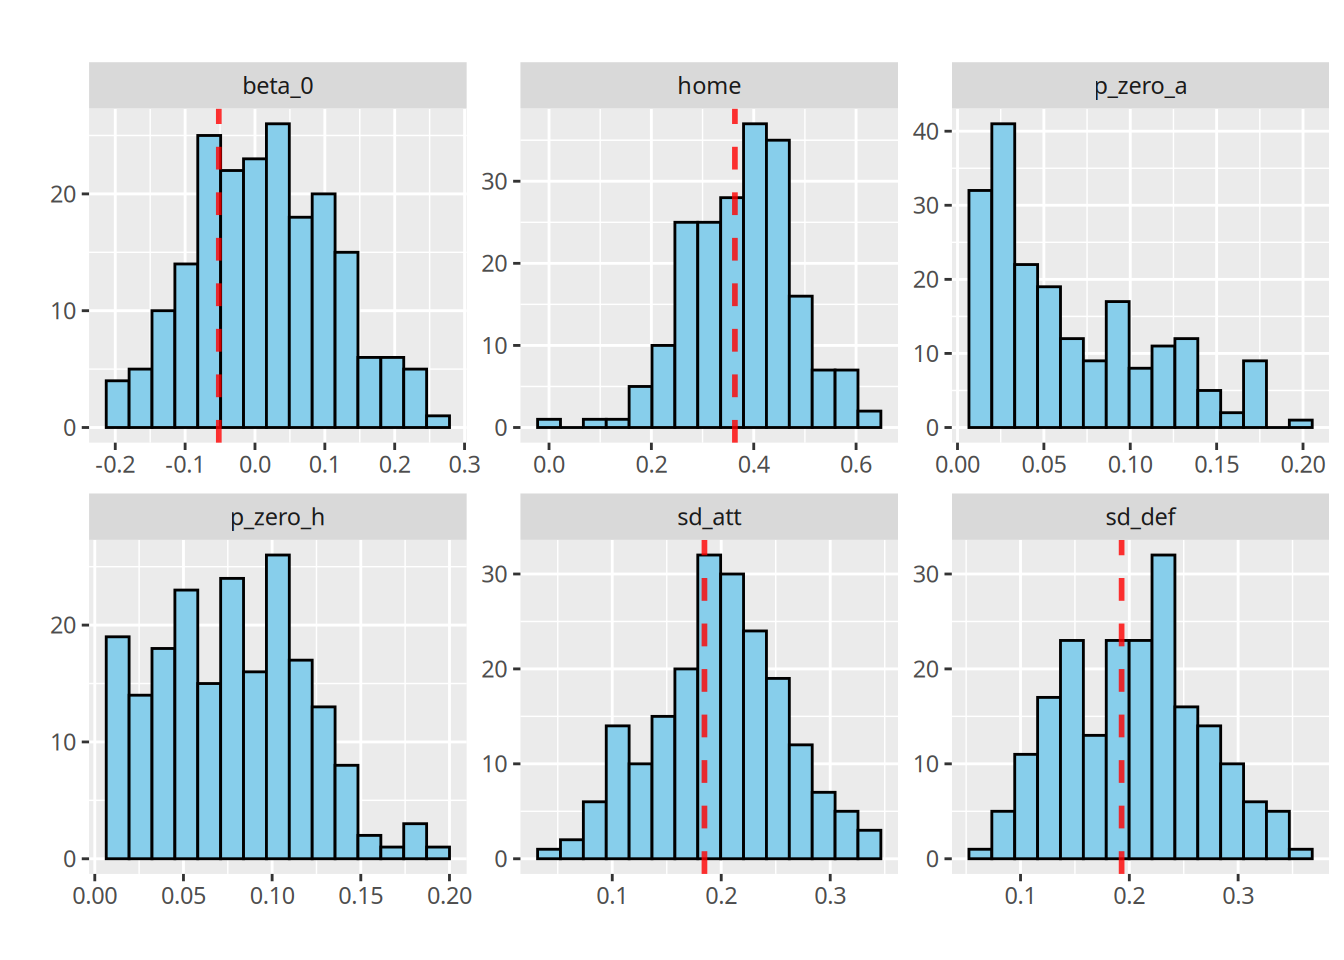
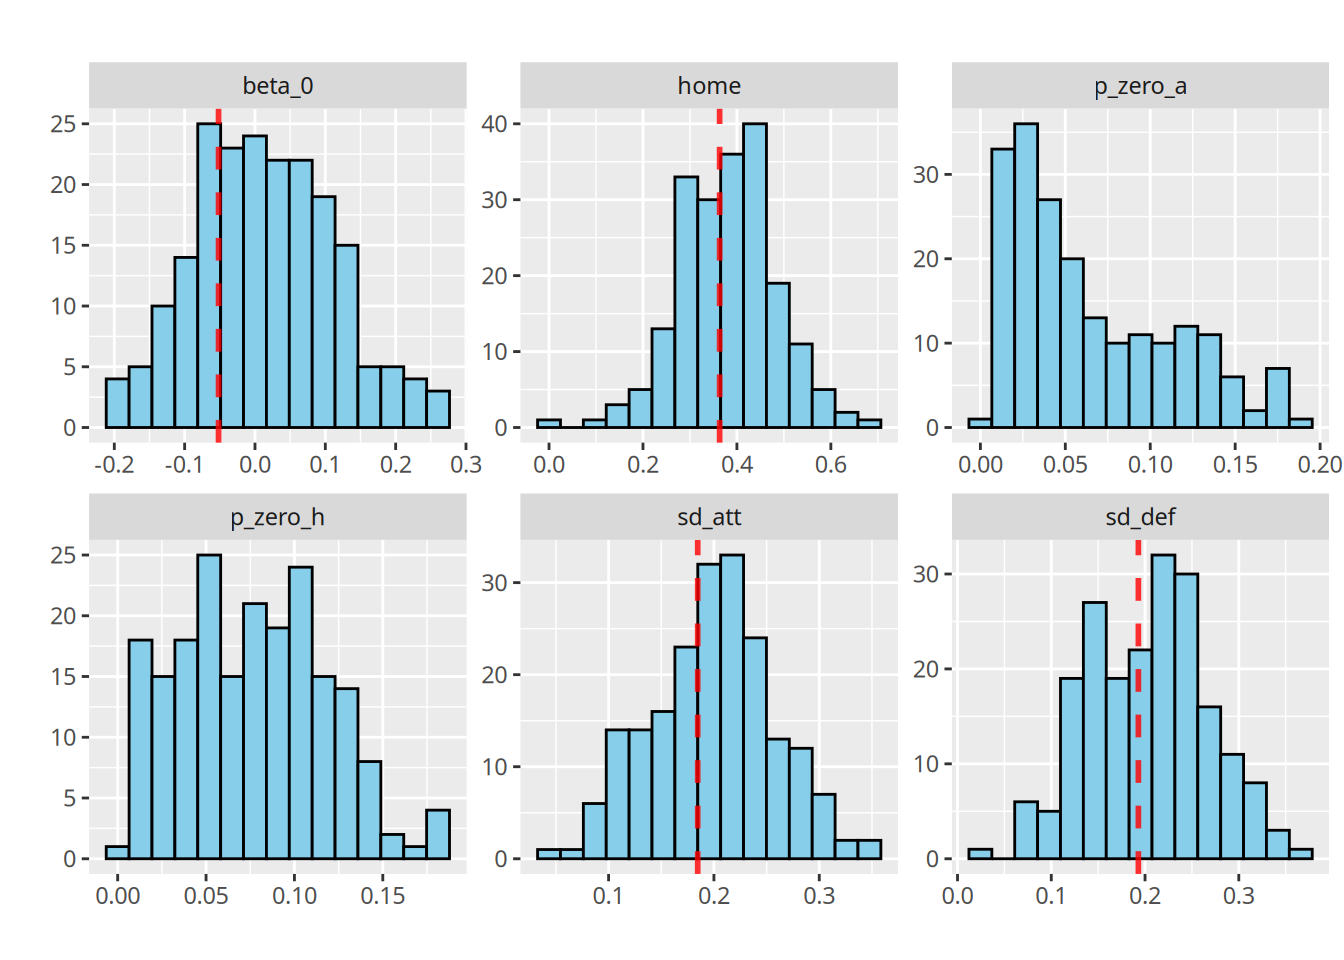
feat: adicionando analises dessa semana

diff --git a/models/campeonato_mineiro.html b/models/campeonato_mineiro.html
@@ -150,8 +150,8 @@ Attaching package: 'footstan'</code></pre>
 <pre><code>
 SAMPLING FOR MODEL 'poisson' NOW (CHAIN 1).
 Chain 1: 
-Chain 1: Gradient evaluation took 1.7e-05 seconds
-Chain 1: 1000 transitions using 10 leapfrog steps per transition would take 0.17 seconds.
+Chain 1: Gradient evaluation took 5e-05 seconds
+Chain 1: 1000 transitions using 10 leapfrog steps per transition would take 0.5 seconds.
 Chain 1: Adjust your expectations accordingly!
 Chain 1: 
 Chain 1: 
@@ -168,15 +168,15 @@ Chain 1: Iteration: 8000 / 10000 [ 80%]  (Sampling)
 Chain 1: Iteration: 9000 / 10000 [ 90%]  (Sampling)
 Chain 1: Iteration: 10000 / 10000 [100%]  (Sampling)
 Chain 1: 
-Chain 1:  Elapsed Time: 0.778 seconds (Warm-up)
-Chain 1:                0.893 seconds (Sampling)
-Chain 1:                1.671 seconds (Total)
+Chain 1:  Elapsed Time: 0.889 seconds (Warm-up)
+Chain 1:                0.862 seconds (Sampling)
+Chain 1:                1.751 seconds (Total)
 Chain 1: 
 
 SAMPLING FOR MODEL 'poisson' NOW (CHAIN 2).
 Chain 2: 
-Chain 2: Gradient evaluation took 2.5e-05 seconds
-Chain 2: 1000 transitions using 10 leapfrog steps per transition would take 0.25 seconds.
+Chain 2: Gradient evaluation took 1.6e-05 seconds
+Chain 2: 1000 transitions using 10 leapfrog steps per transition would take 0.16 seconds.
 Chain 2: Adjust your expectations accordingly!
 Chain 2: 
 Chain 2: 
@@ -193,9 +193,9 @@ Chain 2: Iteration: 8000 / 10000 [ 80%]  (Sampling)
 Chain 2: Iteration: 9000 / 10000 [ 90%]  (Sampling)
 Chain 2: Iteration: 10000 / 10000 [100%]  (Sampling)
 Chain 2: 
-Chain 2:  Elapsed Time: 1.35 seconds (Warm-up)
-Chain 2:                1.025 seconds (Sampling)
-Chain 2:                2.375 seconds (Total)
+Chain 2:  Elapsed Time: 0.917 seconds (Warm-up)
+Chain 2:                1.003 seconds (Sampling)
+Chain 2:                1.92 seconds (Total)
 Chain 2: </code></pre>
 </div>
 <div class="cell-output cell-output-stderr">
@@ -208,36 +208,16 @@ to find out why this is a problem and how to eliminate them.</code></pre>
 </div>
 </div>
 </section>
-<section id="visualizando-os-parâmetros-ajustados-para-os-semi-finalistas" class="level2">
-<h2 class="anchored" data-anchor-id="visualizando-os-parâmetros-ajustados-para-os-semi-finalistas">Visualizando os parâmetros ajustados para os semi-finalistas</h2>
-<div class="tabset-margin-container"></div><div class="panel-tabset">
-<ul class="nav nav-tabs" role="tablist"><li class="nav-item" role="presentation"><a class="nav-link active" id="tabset-1-1-tab" data-bs-toggle="tab" data-bs-target="#tabset-1-1" role="tab" aria-controls="tabset-1-1" aria-selected="true" href="">Tombense</a></li><li class="nav-item" role="presentation"><a class="nav-link" id="tabset-1-2-tab" data-bs-toggle="tab" data-bs-target="#tabset-1-2" role="tab" aria-controls="tabset-1-2" aria-selected="false" href="">Cruzeiro</a></li><li class="nav-item" role="presentation"><a class="nav-link" id="tabset-1-3-tab" data-bs-toggle="tab" data-bs-target="#tabset-1-3" role="tab" aria-controls="tabset-1-3" aria-selected="false" href="">América-MG</a></li><li class="nav-item" role="presentation"><a class="nav-link" id="tabset-1-4-tab" data-bs-toggle="tab" data-bs-target="#tabset-1-4" role="tab" aria-controls="tabset-1-4" aria-selected="false" href="">Atlético-MG</a></li></ul>
-<div class="tab-content">
-<div id="tabset-1-1" class="tab-pane active" role="tabpanel" aria-labelledby="tabset-1-1-tab">
-<p><img src="campeonato_mineiro_files/figure-html/unnamed-chunk-4-1.png" class="img-fluid" width="672"><img src="campeonato_mineiro_files/figure-html/unnamed-chunk-4-2.png" class="img-fluid" width="672"></p>
-</div>
-<div id="tabset-1-2" class="tab-pane" role="tabpanel" aria-labelledby="tabset-1-2-tab">
-<p><img src="campeonato_mineiro_files/figure-html/unnamed-chunk-4-3.png" class="img-fluid" width="672"><img src="campeonato_mineiro_files/figure-html/unnamed-chunk-4-4.png" class="img-fluid" width="672"></p>
-</div>
-<div id="tabset-1-3" class="tab-pane" role="tabpanel" aria-labelledby="tabset-1-3-tab">
-<p><img src="campeonato_mineiro_files/figure-html/unnamed-chunk-4-5.png" class="img-fluid" width="672"><img src="campeonato_mineiro_files/figure-html/unnamed-chunk-4-6.png" class="img-fluid" width="672"></p>
-</div>
-<div id="tabset-1-4" class="tab-pane" role="tabpanel" aria-labelledby="tabset-1-4-tab">
-<p><img src="campeonato_mineiro_files/figure-html/unnamed-chunk-4-7.png" class="img-fluid" width="672"><img src="campeonato_mineiro_files/figure-html/unnamed-chunk-4-8.png" class="img-fluid" width="672"></p>
-</div>
-</div>
-</div>
-</section>
 <section id="prevendo-os-resultados-das-semi-finais" class="level2">
 <h2 class="anchored" data-anchor-id="prevendo-os-resultados-das-semi-finais">Prevendo os Resultados das Semi-finais</h2>
 <div class="cell">
-<div class="sourceCode cell-code" id="cb11"><pre class="sourceCode r code-with-copy"><code class="sourceCode r"><span id="cb11-1"><a href="#cb11-1" aria-hidden="true" tabindex="-1"></a>h <span class="ot">&lt;-</span> <span class="fu">c</span>(<span class="dv">1</span>, <span class="dv">10</span>, <span class="dv">4</span>, <span class="dv">11</span>)</span>
-<span id="cb11-2"><a href="#cb11-2" aria-hidden="true" tabindex="-1"></a>a <span class="ot">&lt;-</span> <span class="fu">c</span>(<span class="dv">4</span>, <span class="dv">11</span>, <span class="dv">1</span>, <span class="dv">10</span>)</span>
+<div class="sourceCode cell-code" id="cb11"><pre class="sourceCode r code-with-copy"><code class="sourceCode r"><span id="cb11-1"><a href="#cb11-1" aria-hidden="true" tabindex="-1"></a>h <span class="ot">&lt;-</span> <span class="fu">c</span>(<span class="dv">4</span>, <span class="dv">11</span>)</span>
+<span id="cb11-2"><a href="#cb11-2" aria-hidden="true" tabindex="-1"></a>a <span class="ot">&lt;-</span> <span class="fu">c</span>(<span class="dv">1</span>, <span class="dv">10</span>)</span>
 <span id="cb11-3"><a href="#cb11-3" aria-hidden="true" tabindex="-1"></a></span>
 <span id="cb11-4"><a href="#cb11-4" aria-hidden="true" tabindex="-1"></a>new_games <span class="ot">&lt;-</span> <span class="fu">data.frame</span>(<span class="at">h =</span> h, <span class="at">a =</span> a)</span>
 <span id="cb11-5"><a href="#cb11-5" aria-hidden="true" tabindex="-1"></a>predictions <span class="ot">&lt;-</span> <span class="fu">predict</span>(fit_poisson, new_games)</span></code><button title="Copy to Clipboard" class="code-copy-button"><i class="bi"></i></button></pre></div>
 </div>
-<p>A função <code>footstan::predict</code> retorna uma lista com todos os resultados previstos pelo stan para cada jogo. Podemos então utilizar a função: <code>footstan::prediction_proportions</code> para calcular as proporções de cada um dos resultados e obter-se uma predição mais simples de se interpretar</p>
+<p>A função <code>footstan::predict</code> retorna uma lista com todos os resultados previstos pelo stan para cada jogo. Podemos então utilizar a função: <code>footstan::prediction_proportions</code> para calcular as proporções de cada um dos resultados e obter-se uma predição mais simples de se interpretar.</p>
 <div class="cell">
 <div class="sourceCode cell-code" id="cb12"><pre class="sourceCode r code-with-copy"><code class="sourceCode r"><span id="cb12-1"><a href="#cb12-1" aria-hidden="true" tabindex="-1"></a>proportions <span class="ot">&lt;-</span> <span class="fu">prediction_proportions</span>(predictions)</span>
 <span id="cb12-2"><a href="#cb12-2" aria-hidden="true" tabindex="-1"></a></span>
@@ -247,59 +227,42 @@ to find out why this is a problem and how to eliminate them.</code></pre>
 <span id="cb12-6"><a href="#cb12-6" aria-hidden="true" tabindex="-1"></a></span>
 <span id="cb12-7"><a href="#cb12-7" aria-hidden="true" tabindex="-1"></a>proportions</span></code><button title="Copy to Clipboard" class="code-copy-button"><i class="bi"></i></button></pre></div>
 <div class="cell-output cell-output-stdout">
-<pre><code>            h           a home_win   draw home_lost
-1    Tombense    Cruzeiro   0.3563 0.2844    0.3593
-2 Atlético-MG  América-MG   0.2699 0.3035    0.4266
-3    Cruzeiro    Tombense   0.4272 0.2753    0.2975
-4  América-MG Atlético-MG   0.4825 0.2912    0.2263</code></pre>
+<pre><code>           h           a home_win   draw home_lost
+1   Cruzeiro    Tombense   0.4196 0.3019    0.2785
+2 América-MG Atlético-MG   0.4202 0.3129    0.2669</code></pre>
 </div>
 </div>
+</section>
+<section id="comparando-as-previsões-entre-modelos" class="level2">
+<h2 class="anchored" data-anchor-id="comparando-as-previsões-entre-modelos">Comparando as previsões entre modelos</h2>
+<div class="tabset-margin-container"></div><div class="panel-tabset">
+<ul class="nav nav-tabs" role="tablist"><li class="nav-item" role="presentation"><a class="nav-link active" id="tabset-1-1-tab" data-bs-toggle="tab" data-bs-target="#tabset-1-1" role="tab" aria-controls="tabset-1-1" aria-selected="true" href="">Poisson Simples</a></li><li class="nav-item" role="presentation"><a class="nav-link" id="tabset-1-2-tab" data-bs-toggle="tab" data-bs-target="#tabset-1-2" role="tab" aria-controls="tabset-1-2" aria-selected="false" href="">Binomial Negativa</a></li><li class="nav-item" role="presentation"><a class="nav-link" id="tabset-1-3-tab" data-bs-toggle="tab" data-bs-target="#tabset-1-3" role="tab" aria-controls="tabset-1-3" aria-selected="false" href="">Poisson Inflada</a></li><li class="nav-item" role="presentation"><a class="nav-link" id="tabset-1-4-tab" data-bs-toggle="tab" data-bs-target="#tabset-1-4" role="tab" aria-controls="tabset-1-4" aria-selected="false" href="">Poisson 2</a></li></ul>
+<div class="tab-content">
+<div id="tabset-1-1" class="tab-pane active" role="tabpanel" aria-labelledby="tabset-1-1-tab">
+<div class="cell">
+<div class="cell-output-display">
+<p><img src="campeonato_mineiro_files/figure-html/unnamed-chunk-6-1.png" class="img-fluid" width="672"></p>
+</div>
+</div>
+</div>
+<div id="tabset-1-2" class="tab-pane" role="tabpanel" aria-labelledby="tabset-1-2-tab">
 <div class="cell">
 <div class="cell-output-display">
 <p><img src="campeonato_mineiro_files/figure-html/unnamed-chunk-7-1.png" class="img-fluid" width="672"></p>
 </div>
 </div>
-<p>Uma estatística muito utilizada por casas de apostas é o número de gols em um jogo, podemos utilizar a função <code>footstan::goals_histogram</code> para visualizarmos o número de gols preditos em forma de histograma: ### Jogo Tombense x Cruzeiro</p>
+</div>
+<div id="tabset-1-3" class="tab-pane" role="tabpanel" aria-labelledby="tabset-1-3-tab">
 <div class="cell">
-<div class="sourceCode cell-code" id="cb14"><pre class="sourceCode r code-with-copy"><code class="sourceCode r"><span id="cb14-1"><a href="#cb14-1" aria-hidden="true" tabindex="-1"></a><span class="fu">goals_histogram</span>(predictions, <span class="dv">1</span>, <span class="at">team =</span> <span class="st">"home"</span>, <span class="at">home_team =</span> <span class="st">"Tombense"</span>, <span class="at">fill_color=</span><span class="st">"#e91b25"</span>)</span></code><button title="Copy to Clipboard" class="code-copy-button"><i class="bi"></i></button></pre></div>
 <div class="cell-output-display">
 <p><img src="campeonato_mineiro_files/figure-html/unnamed-chunk-8-1.png" class="img-fluid" width="672"></p>
 </div>
 </div>
-<section id="jogo-atlético-mg-x-américa" class="level3">
-<h3 class="anchored" data-anchor-id="jogo-atlético-mg-x-américa">Jogo Atlético-MG x América</h3>
+</div>
+<div id="tabset-1-4" class="tab-pane" role="tabpanel" aria-labelledby="tabset-1-4-tab">
 <div class="cell">
-<div class="sourceCode cell-code" id="cb15"><pre class="sourceCode r code-with-copy"><code class="sourceCode r"><span id="cb15-1"><a href="#cb15-1" aria-hidden="true" tabindex="-1"></a><span class="fu">goals_histogram</span>(predictions, <span class="at">game =</span> <span class="dv">4</span>, <span class="at">team=</span><span class="st">"home"</span>, <span class="at">home_team =</span> <span class="st">"América-MG"</span>,</span>
-<span id="cb15-2"><a href="#cb15-2" aria-hidden="true" tabindex="-1"></a>                <span class="at">away_team =</span> <span class="st">"Atlético-MG"</span>, <span class="at">fill_color =</span> <span class="st">"#82cb79"</span>)</span></code><button title="Copy to Clipboard" class="code-copy-button"><i class="bi"></i></button></pre></div>
 <div class="cell-output-display">
 <p><img src="campeonato_mineiro_files/figure-html/unnamed-chunk-9-1.png" class="img-fluid" width="672"></p>
-</div>
-</div>
-</section>
-</section>
-<section id="comparando-as-previsões-entre-modelos" class="level2">
-<h2 class="anchored" data-anchor-id="comparando-as-previsões-entre-modelos">Comparando as previsões entre modelos</h2>
-<div class="tabset-margin-container"></div><div class="panel-tabset">
-<ul class="nav nav-tabs" role="tablist"><li class="nav-item" role="presentation"><a class="nav-link active" id="tabset-2-1-tab" data-bs-toggle="tab" data-bs-target="#tabset-2-1" role="tab" aria-controls="tabset-2-1" aria-selected="true" href="">Poisson Simlpes</a></li><li class="nav-item" role="presentation"><a class="nav-link" id="tabset-2-2-tab" data-bs-toggle="tab" data-bs-target="#tabset-2-2" role="tab" aria-controls="tabset-2-2" aria-selected="false" href="">Binomial Negativa</a></li><li class="nav-item" role="presentation"><a class="nav-link" id="tabset-2-3-tab" data-bs-toggle="tab" data-bs-target="#tabset-2-3" role="tab" aria-controls="tabset-2-3" aria-selected="false" href="">Poisson Inflada</a></li></ul>
-<div class="tab-content">
-<div id="tabset-2-1" class="tab-pane active" role="tabpanel" aria-labelledby="tabset-2-1-tab">
-<div class="cell">
-<div class="cell-output-display">
-<p><img src="campeonato_mineiro_files/figure-html/unnamed-chunk-10-1.png" class="img-fluid" width="672"></p>
-</div>
-</div>
-</div>
-<div id="tabset-2-2" class="tab-pane" role="tabpanel" aria-labelledby="tabset-2-2-tab">
-<div class="cell">
-<div class="cell-output-display">
-<p><img src="campeonato_mineiro_files/figure-html/unnamed-chunk-11-1.png" class="img-fluid" width="672"></p>
-</div>
-</div>
-</div>
-<div id="tabset-2-3" class="tab-pane" role="tabpanel" aria-labelledby="tabset-2-3-tab">
-<div class="cell">
-<div class="cell-output-display">
-<p><img src="campeonato_mineiro_files/figure-html/unnamed-chunk-12-1.png" class="img-fluid" width="672"></p>
 </div>
 </div>
 </div>

diff --git a/models/plot_summary.html b/models/plot_summary.html
@@ -95,24 +95,31 @@ ul.task-list li input[type="checkbox"] {
 <tbody>
 <tr class="odd">
 <td style="text-align: left;">LOO-CV</td>
-<td style="text-align: center;">0.07</td>
-<td style="text-align: center;">0.080</td>
-<td style="text-align: center;">0.205</td>
-<td style="text-align: center;">0.645</td>
+<td style="text-align: center;">0.075</td>
+<td style="text-align: center;">0.070</td>
+<td style="text-align: center;">0.160</td>
+<td style="text-align: center;">0.695</td>
 </tr>
 <tr class="even">
 <td style="text-align: left;">WAIC</td>
-<td style="text-align: center;">0.07</td>
-<td style="text-align: center;">0.080</td>
-<td style="text-align: center;">0.210</td>
-<td style="text-align: center;">0.640</td>
+<td style="text-align: center;">0.075</td>
+<td style="text-align: center;">0.075</td>
+<td style="text-align: center;">0.165</td>
+<td style="text-align: center;">0.685</td>
 </tr>
 <tr class="odd">
-<td style="text-align: left;">EQM</td>
-<td style="text-align: center;">0.61</td>
-<td style="text-align: center;">0.165</td>
-<td style="text-align: center;">0.165</td>
-<td style="text-align: center;">0.060</td>
+<td style="text-align: left;">MSE</td>
+<td style="text-align: center;">0.045</td>
+<td style="text-align: center;">0.575</td>
+<td style="text-align: center;">0.135</td>
+<td style="text-align: center;">0.245</td>
+</tr>
+<tr class="even">
+<td style="text-align: left;">RRMSE</td>
+<td style="text-align: center;">0.005</td>
+<td style="text-align: center;">0.460</td>
+<td style="text-align: center;">0.145</td>
+<td style="text-align: center;">0.390</td>
 </tr>
 </tbody>
 </table>
@@ -150,24 +157,31 @@ ul.task-list li input[type="checkbox"] {
 <tbody>
 <tr class="odd">
 <td style="text-align: left;">LOO-CV</td>
-<td style="text-align: center;">0.915</td>
-<td style="text-align: center;">0.015</td>
-<td style="text-align: center;">0.070</td>
-<td style="text-align: center;">0.00</td>
+<td style="text-align: center;">0.900</td>
+<td style="text-align: center;">0.020</td>
+<td style="text-align: center;">0.075</td>
+<td style="text-align: center;">0.005</td>
 </tr>
 <tr class="even">
 <td style="text-align: left;">WAIC</td>
-<td style="text-align: center;">0.910</td>
+<td style="text-align: center;">0.900</td>
 <td style="text-align: center;">0.020</td>
-<td style="text-align: center;">0.070</td>
-<td style="text-align: center;">0.00</td>
+<td style="text-align: center;">0.075</td>
+<td style="text-align: center;">0.005</td>
 </tr>
 <tr class="odd">
-<td style="text-align: left;">EQM</td>
-<td style="text-align: center;">0.860</td>
-<td style="text-align: center;">0.025</td>
-<td style="text-align: center;">0.105</td>
-<td style="text-align: center;">0.01</td>
+<td style="text-align: left;">MSE</td>
+<td style="text-align: center;">0.005</td>
+<td style="text-align: center;">0.750</td>
+<td style="text-align: center;">0.070</td>
+<td style="text-align: center;">0.175</td>
+</tr>
+<tr class="even">
+<td style="text-align: left;">RRMSE</td>
+<td style="text-align: center;">0.005</td>
+<td style="text-align: center;">0.585</td>
+<td style="text-align: center;">0.055</td>
+<td style="text-align: center;">0.355</td>
 </tr>
 </tbody>
 </table>
@@ -205,24 +219,31 @@ ul.task-list li input[type="checkbox"] {
 <tbody>
 <tr class="odd">
 <td style="text-align: left;">LOO-CV</td>
-<td style="text-align: center;">0.125</td>
-<td style="text-align: center;">0.005</td>
-<td style="text-align: center;">0.87</td>
-<td style="text-align: center;">0</td>
+<td style="text-align: center;">0.025</td>
+<td style="text-align: center;">0.000</td>
+<td style="text-align: center;">0.975</td>
+<td style="text-align: center;">0.000</td>
 </tr>
 <tr class="even">
 <td style="text-align: left;">WAIC</td>
-<td style="text-align: center;">0.125</td>
-<td style="text-align: center;">0.005</td>
-<td style="text-align: center;">0.87</td>
-<td style="text-align: center;">0</td>
+<td style="text-align: center;">0.025</td>
+<td style="text-align: center;">0.000</td>
+<td style="text-align: center;">0.975</td>
+<td style="text-align: center;">0.000</td>
 </tr>
 <tr class="odd">
-<td style="text-align: left;">EQM</td>
-<td style="text-align: center;">0.520</td>
+<td style="text-align: left;">MSE</td>
 <td style="text-align: center;">0.000</td>
-<td style="text-align: center;">0.48</td>
-<td style="text-align: center;">0</td>
+<td style="text-align: center;">0.835</td>
+<td style="text-align: center;">0.000</td>
+<td style="text-align: center;">0.165</td>
+</tr>
+<tr class="even">
+<td style="text-align: left;">RRMSE</td>
+<td style="text-align: center;">0.000</td>
+<td style="text-align: center;">0.455</td>
+<td style="text-align: center;">0.000</td>
+<td style="text-align: center;">0.545</td>
 </tr>
 </tbody>
 </table>
@@ -260,24 +281,31 @@ ul.task-list li input[type="checkbox"] {
 <tbody>
 <tr class="odd">
 <td style="text-align: left;">LOO-CV</td>
-<td style="text-align: center;">0.125</td>
-<td style="text-align: center;">0.005</td>
-<td style="text-align: center;">0.87</td>
 <td style="text-align: center;">0</td>
+<td style="text-align: center;">1.00</td>
+<td style="text-align: center;">0.000</td>
+<td style="text-align: center;">0.000</td>
 </tr>
 <tr class="even">
 <td style="text-align: left;">WAIC</td>
-<td style="text-align: center;">0.125</td>
-<td style="text-align: center;">0.005</td>
-<td style="text-align: center;">0.87</td>
 <td style="text-align: center;">0</td>
+<td style="text-align: center;">1.00</td>
+<td style="text-align: center;">0.000</td>
+<td style="text-align: center;">0.000</td>
 </tr>
 <tr class="odd">
-<td style="text-align: left;">EQM</td>
-<td style="text-align: center;">0.520</td>
-<td style="text-align: center;">0.000</td>
-<td style="text-align: center;">0.48</td>
+<td style="text-align: left;">MSE</td>
 <td style="text-align: center;">0</td>
+<td style="text-align: center;">0.99</td>
+<td style="text-align: center;">0.005</td>
+<td style="text-align: center;">0.005</td>
+</tr>
+<tr class="even">
+<td style="text-align: left;">RRMSE</td>
+<td style="text-align: center;">0</td>
+<td style="text-align: center;">0.95</td>
+<td style="text-align: center;">0.015</td>
+<td style="text-align: center;">0.035</td>
 </tr>
 </tbody>
 </table>
